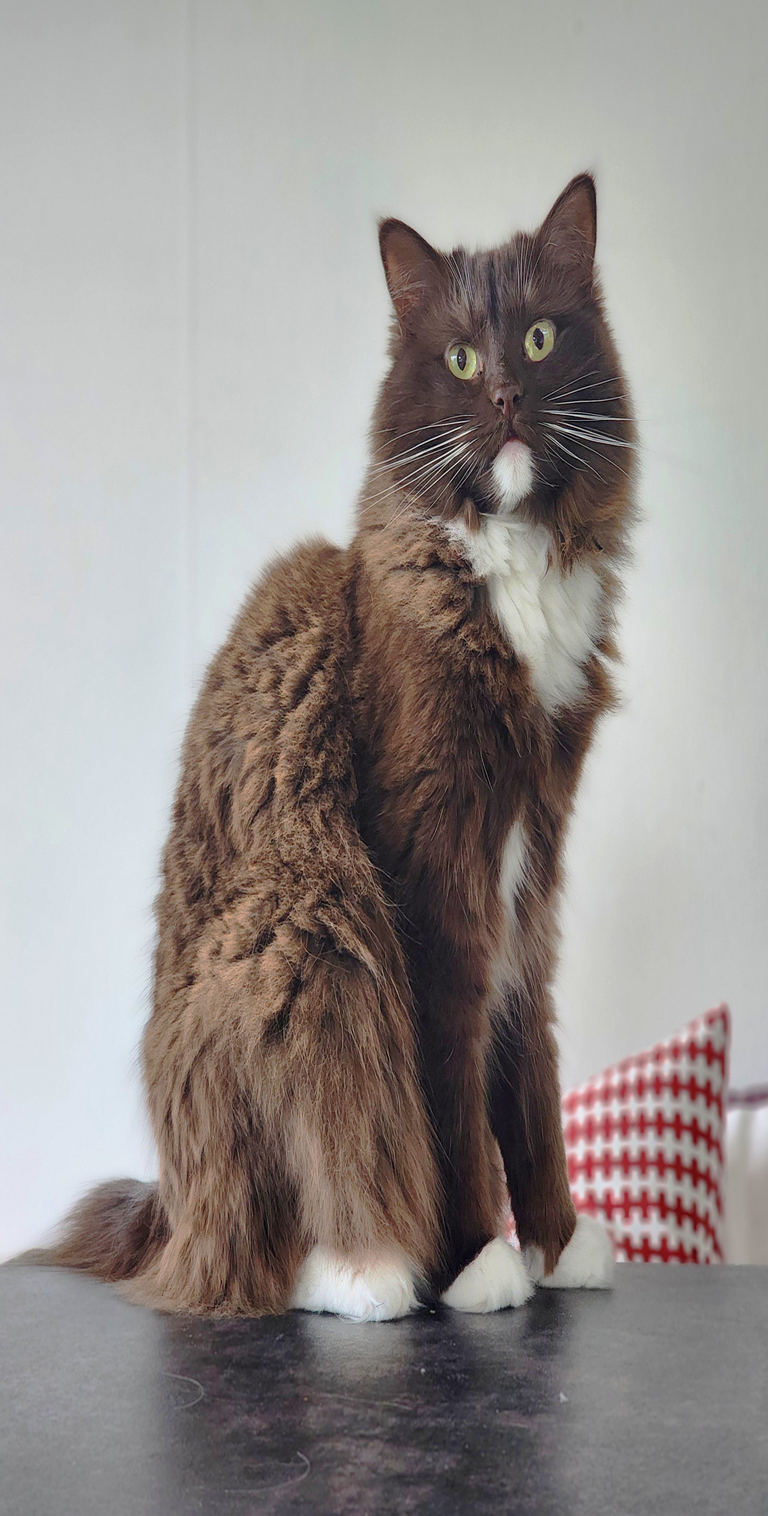
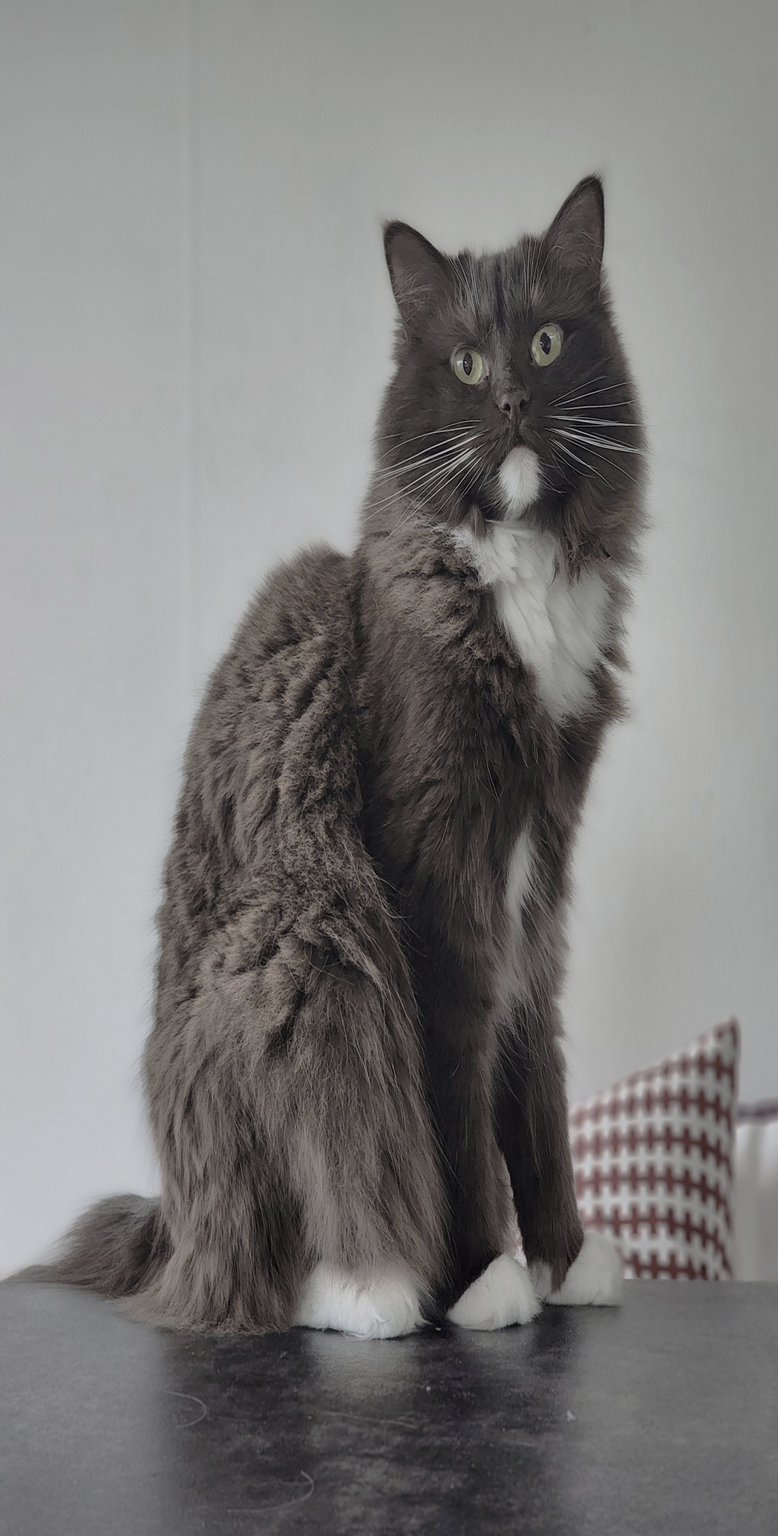
redigerade bilder

diff --git a/bildred.html b/bildred.html
@@ -40,11 +40,11 @@
     </figure>
     <figure>
       <img src="assets/bilserie006.jpg" class="blomred" alt="Blomma före redigering">
-      <img src="assets/bildserie002korrekt.jpg" class="blomred" alt="Blomma med redigerade färger">
+      <img src="assets/bildserie002.jpg" class="blomred" alt="Blomma med redigerade färger">
       <figcaption>Den ursprungliga bilden upplevdes väldigt mörk och platt, så jag ökade ljusstyrka och kontrast i första steget. Justerade även ljusbalansen för att få fram varmare och klarare färger. Ökade även lyster och exponering. För att tona ned det gröna i bakgrunden så att det skulle matcha resterande bilder justerade jag färgbalansen specifikt för midtones och highlights under fliken "green". Resultatet blev en ljusare och mer harmonisk bild där blomman framträder klart tydligare. </figcaption>
     </figure>
       <figure><img src="assets/bilserie010.jpg" class="kored" alt="Ko före redigering">
-      <img src="assets/bildserie03.jpg" class="kored" alt="Ko med redigerade färger och borttagna blommor">
+      <img src="assets/bildserie003.jpg" class="kored" alt="Ko med redigerade färger och borttagna blommor">
       <figcaption>På denna bild fokuserade jag primärt på att korrigera färgbalansen, eftersom originalet drar mycket åt gult och rött. Jag justerade midtones och highlights för att skapa en naturligare ton i hela bilden. Kontrasten och ljusheten ökade jag för att ge bilden mer djup, medan mättnaden sänktes för att undvika överdrivna färger. Jag använde även brush tool för att retuschera bort några blommor framför motivet. Avslutade med att beskära bilden för att kossan skulle få mer fokus i bilden. </figcaption>
     </figure>
       

diff --git a/index.html b/index.html
@@ -39,8 +39,8 @@
     </section>
     <section class ="bildserie">
       <img src="assets/bildserie001.jpg" class="katten" alt="Katt med korriget öga från lila">
-      <img src="assets/bildserie002korrekt.jpg" class="blomman" alt="Blomma med redigerade färger">
-      <img src="assets/bildserie03.jpg" class="kossan" alt="Ko med redigerade färger och borttagna blommor">
+      <img src="assets/bildserie002.jpg" class="blomman" alt="Blomma med redigerade färger">
+      <img src="assets/bildserie003.jpg" class="kossan" alt="Ko med redigerade färger och borttagna blommor">
       
     </section>
   </main>
